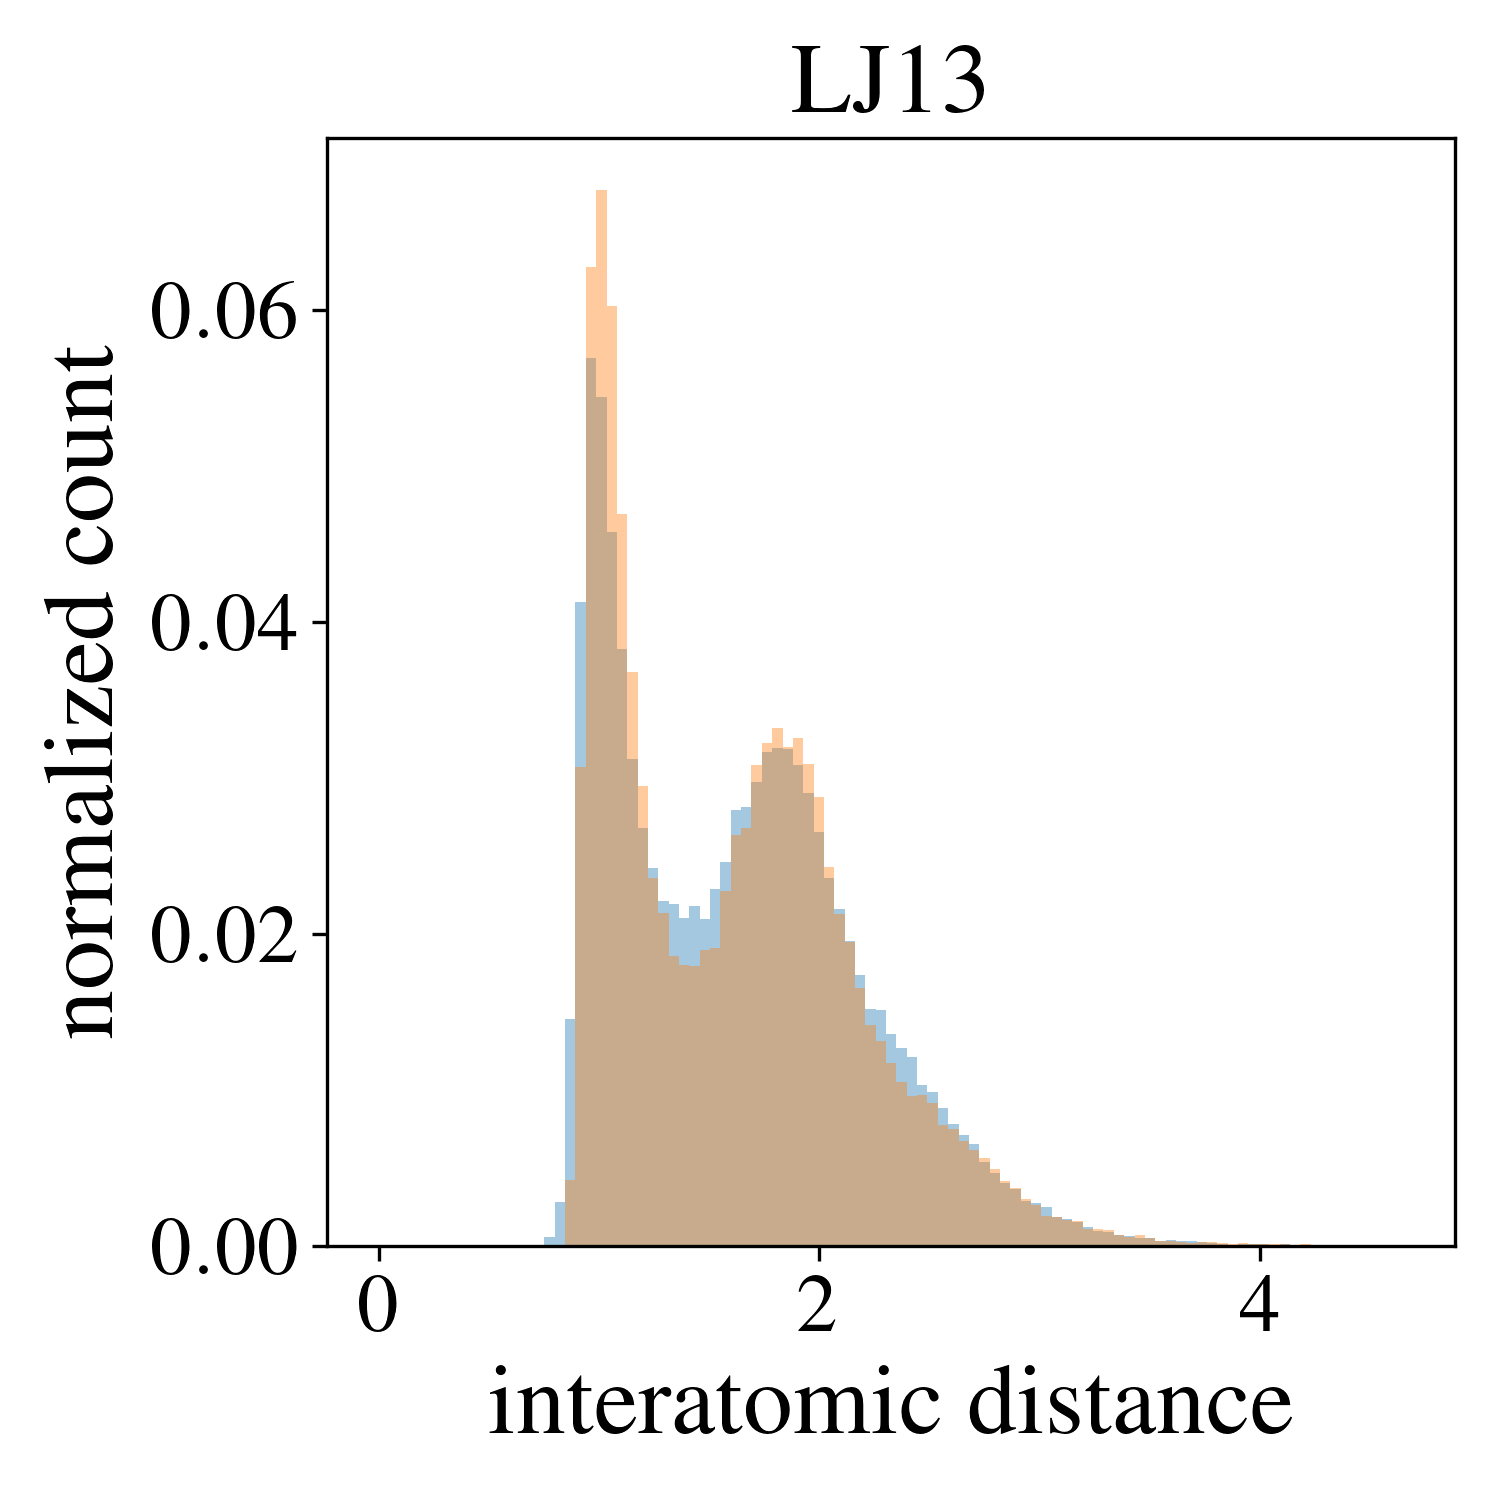
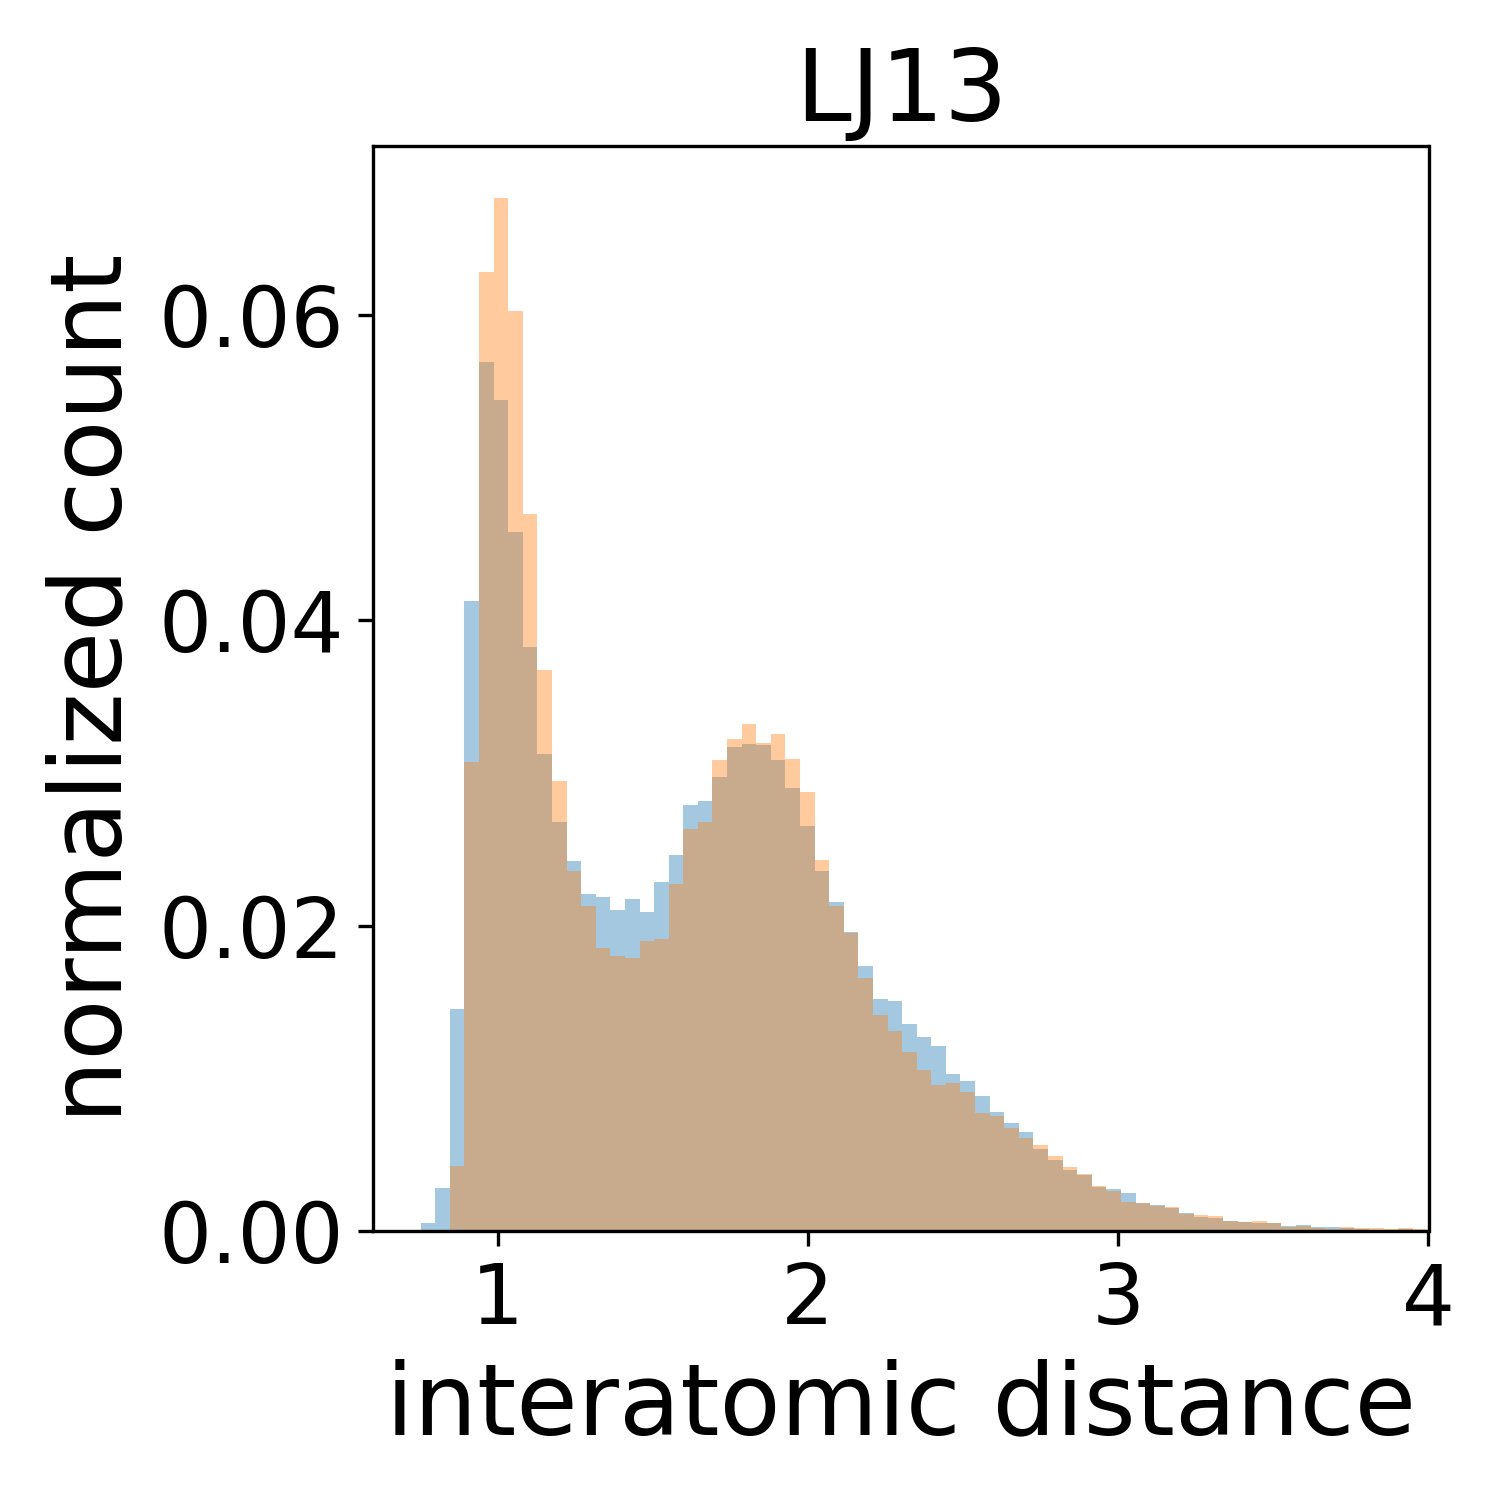
feat: increase spline width

Changed region(s): [[0.0307, 0.0307, 0.9813, 0.9813]]

diff --git a/examples/qm9_results/plot.py b/examples/qm9_results/plot.py
@@ -9,8 +9,8 @@ from molboil.targets.data import load_qm9
 
 
 mpl.rcParams['figure.dpi'] = 300
-rc('font', **{'family': 'serif', 'serif': ['Times']})
-rc('text', usetex=False)
+# rc('font', **{'family': 'serif', 'serif': ['Times']})
+# rc('text', usetex=False)
 rc('axes', titlesize=24, labelsize=24)  # fontsize of the axes title and labels
 rc('legend', fontsize=24)
 rc('xtick', labelsize=20)
@@ -63,8 +63,9 @@ if __name__ == '__main__':
 
     flow, state = load_flow(cfg, checkpoint_path)
 
-    train_data, valid_data, test_data = load_qm9()
+    train_data, valid_data, test_data = load_qm9(train_set_size=2000)  # None)
     n_samples_from_flow_plotting = train_data.positions.shape[0]
+    print(f"plotting qm9 with {n_samples_from_flow_plotting} samples")
 
 
     get_data_for_plotting, count_list, bins_x = make_get_data_for_plotting(train_data=train_data, test_data=test_data,
@@ -83,6 +84,8 @@ if __name__ == '__main__':
     axs[0].set_ylabel("normalized count")
     axs[0].set_xlabel("interatomic distance")
     plt.title("QM9")
+    axs[0].set_xlim(0.5, 9.)
     fig1.tight_layout()
     fig1.savefig("examples/plots/qm9.png")
     # plt.show()
+    print("done")

diff --git a/examples/dw4_results/plot.py b/examples/dw4_results/plot.py
@@ -12,8 +12,8 @@ from molboil.targets.data import load_dw4
 
 
 mpl.rcParams['figure.dpi'] = 300
-rc('font', **{'family': 'serif', 'serif': ['Times']})
-rc('text', usetex=False)
+# rc('font', **{'family': 'serif', 'serif': ['Times']})
+# rc('text', usetex=False)
 rc('axes', titlesize=24, labelsize=24)  # fontsize of the axes title and labels
 rc('legend', fontsize=24)
 rc('xtick', labelsize=20)
@@ -139,7 +139,8 @@ if __name__ == '__main__':
     axs[0].legend(loc="upper left")
     axs[0].set_ylabel("normalized count")
     axs[0].set_xlabel("interatomic distance")
+    axs[0].set_xlim(1, 6.3)
     plt.title("DW4")
     fig1.tight_layout()
-    fig1.savefig("examples/dw4_results/plots/dw4.png")
+    fig1.savefig("examples/plots/dw4.png")
     plt.show()

diff --git a/examples/lj13_results/plot.py b/examples/lj13_results/plot.py
@@ -9,8 +9,8 @@ from molboil.targets.data import load_lj13
 
 
 mpl.rcParams['figure.dpi'] = 300
-rc('font', **{'family': 'serif', 'serif': ['Times']})
-rc('text', usetex=False)
+# rc('font', **{'family': 'serif', 'serif': ['Times']})
+# rc('text', usetex=False)
 rc('axes', titlesize=24, labelsize=24)  # fontsize of the axes title and labels
 rc('legend', fontsize=24)
 rc('xtick', labelsize=20)
@@ -83,6 +83,7 @@ if __name__ == '__main__':
     axs[0].set_ylabel("normalized count")
     axs[0].set_xlabel("interatomic distance")
     plt.title("LJ13")
+    axs[0].set_xlim(0.6, 4.)
     fig1.tight_layout()
     fig1.savefig("examples/plots/lj13.png")
     plt.show()
